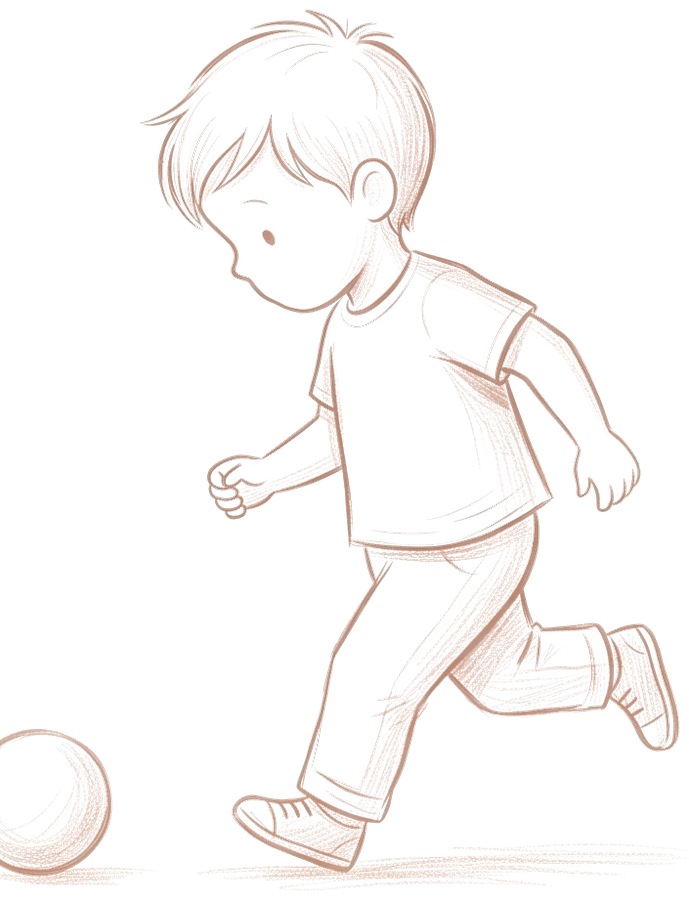
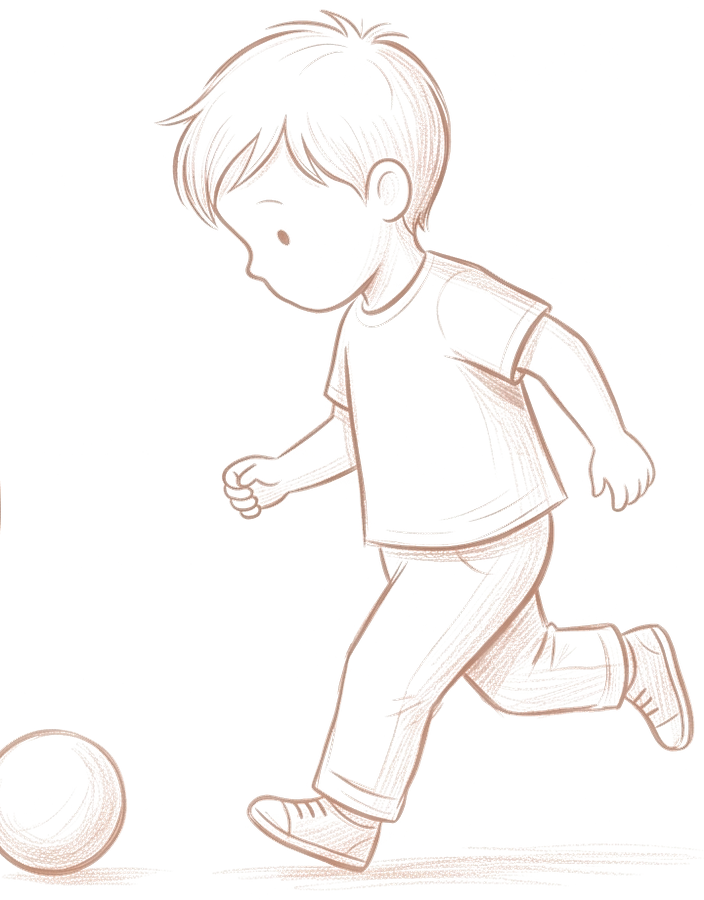
Clean the two play drawings, and rework the contact block
The girl carried a stray vertical stroke and a tuft of grass from
the edge of the sheet - a frame drawn around the page, not part of
her - and the boy's ball had been cut in half by the split between
panels. prep-drawings.py now walks the left edge in until it meets a
column with real ink in it, and the boy's span starts before his
ball rather than through it.

In "דברי איתי" the phone and the email sit side by side once there is
room: stacked, two short lines left a column of air beside them and
pushed everything below them down the page. Under them is a girl
with a tin can on a string. The section asks the reader to make
contact and a can with a line running out of frame is exactly that -
someone is holding the other end. One drawing, not three: a waving
child is a greeting and a paper plane flies away from its sender.

The icons lost their filled terracotta tiles. A coloured square is a
button shape and these are not buttons.

The footer drawing is out, and the sentence it sat under is centred
in its column - left ragged against nothing it hung off the edge of
a column twice its width.

diff --git a/components/sections/Contact.tsx b/components/sections/Contact.tsx
@@ -1,10 +1,10 @@
 "use client";
 
+import Image from "next/image";
 import Link from "next/link";
 import { useActionState, useEffect, useRef } from "react";
 import { useFormStatus } from "react-dom";
 import { CheckCircle2, Mail, Phone } from "lucide-react";
-import { ChildBall } from "@/components/art/Illustrations";
 import { submitContact, type ContactState } from "@/app/actions/contact";
 import { Reveal } from "@/components/ui/Reveal";
 import type { ContactSection } from "@/content/types";
@@ -133,7 +133,9 @@ export function Contact({
           </h2>
           <p className="mt-5 text-xl text-muted">{data.lead}</p>
 
-          <ul className="mt-10 space-y-6">
+          {/* Side by side once there is room: two short lines stacked left a
+              column of air beside them and pushed the drawing far down the page. */}
+          <ul className="mt-10 grid gap-6 sm:grid-cols-2">
             {details.map((detail) => (
               <li key={detail.label} className="flex items-start gap-3">
                 {/* The mark alone, no filled tile behind it. A terracotta
@@ -157,7 +159,20 @@ export function Contact({
             ))}
           </ul>
 
-          {art && <ChildBall className="mt-12 h-24 w-auto text-accent-ink/55 md:h-28" />}
+          {art && (
+            /* A tin can on a string, under the two ways of reaching her. The
+               section is called "דברי איתי" and a can with a line running out
+               of frame is that: someone is holding the other end. */
+            <Image
+              src="/images/art-tin-can.png"
+              alt=""
+              width={562}
+              height={753}
+              sizes="220px"
+              aria-hidden="true"
+              className="mt-10 h-32 w-auto md:h-40"
+            />
+          )}
         </Reveal>
 
         <Reveal delay={140} className="on-accent rounded-3xl bg-accent p-6 md:p-9">

diff --git a/components/layout/Footer.tsx b/components/layout/Footer.tsx
@@ -1,4 +1,3 @@
-import Image from "next/image";
 import Link from "next/link";
 import { Mail, Phone } from "lucide-react";
 import { Logo } from "@/components/brand/Logo";
@@ -25,19 +24,13 @@ export function Footer({ settings }: { settings: SiteSettings }) {
               menu - every one of those links already sits in the header.
               Left ragged, not centred: centring Hebrew this long gives a
               jagged block with no edge to read down. */}
-          <div className="md:col-span-2 lg:col-span-1">
-            <p className="max-w-md text-lg leading-relaxed text-balance text-on-dark md:text-xl">
+          {/* Centred in its column now that the drawing under it is gone -
+              left ragged against nothing, the sentence hung off the edge of a
+              column twice its width. */}
+          <div className="md:col-span-2 lg:col-span-1 lg:self-center">
+            <p className="mx-auto max-w-sm text-lg leading-relaxed text-balance text-on-dark lg:mx-0 md:text-xl">
               {settings.footerLine}
             </p>
-            {/* Tinted light so the line art reads on the dark footer. */}
-            <Image
-              src="/images/art-boy-ball-light.png"
-              alt=""
-              width={689}
-              height={900}
-              sizes="160px"
-              className="mx-auto mt-8 h-24 w-auto opacity-75 md:h-28 lg:mx-0"
-            />
           </div>
 
           <div>

diff --git a/app/page.tsx b/app/page.tsx
@@ -33,7 +33,7 @@ export default async function HomePage() {
       <Faq data={content.faq} tone="deep" />
       {/* Last thing read before the form: what she is not being sold. */}
       {content.notHere && <NotHere data={content.notHere} variant="dark" />}
-      <Contact data={content.contact} settings={settings} />
+      <Contact data={content.contact} settings={settings} art />
 
       <FaqJsonLd items={content.faq.items} />
       <ServicesJsonLd services={content.services.services} />

diff --git a/scripts/prep-drawings.py b/scripts/prep-drawings.py
@@ -47,12 +47,19 @@ CUTS = [
     ("day-collapse", "day-icons-source.jpg", (2650, None), False),
     ("art-path-home", "paths-source.jpg", (1898, None), False),
     ("art-child-sprawl", "reading-source.jpg", (1833, None), False),
-    ("art-girl-blocks", "play-source.jpg", (120, 1058), True),
-    ("art-boy-ball", "play-source.jpg", (1780, None), True),
+    # 120..244 is a tree and some grass at the very edge of the sheet, drawn
+    # as a border and not as part of the girl; 1765 catches the whole ball,
+    # which the boy is kicking and which starts before he does.
+    ("art-girl-blocks", "play-source.jpg", (210, 1058), True, True),
+    ("art-boy-ball", "play-source.jpg", (1765, None), True),
+    # Only the girl, her tin can and the string trailing off: the blocks to her
+    # right belong to a different idea, and a line running out of frame says
+    # the other end is somewhere rather than nowhere.
+    ("art-tin-can", "tincan-source.jpg", (90, 680), False),
 ]
 
 
-def cut(name, sheet_file, span, light):
+def cut(name, sheet_file, span, light, trim_edge=False):
     sheet = Image.open(f"{SRC}/{sheet_file}").convert("RGB")
     rgb = np.asarray(sheet).astype(np.float32)
 
@@ -69,6 +76,17 @@ def cut(name, sheet_file, span, light):
     # ramp above reaches almost every pixel on a scanned sheet, so using it to
     # find the bounds returns the whole page.
     inked = lightness < 238
+
+    if trim_edge:
+        # Some sheets are framed with a faint vertical stroke and a tuft of
+        # grass that belong to the page rather than to the drawing. They sit
+        # too close to the figure to cut away with the span, so the left edge
+        # walks in until it meets a column with real ink in it.
+        x_start = span[0]
+        counts = (lightness[:, x_start:] < 238).sum(axis=0)
+        while x_start - span[0] < 260 and counts[x_start - span[0]] < 300:
+            x_start += 1
+        span = (x_start, span[1])
 
     x0, x1 = span or (0, None)
     band = coverage[:, x0:x1]
